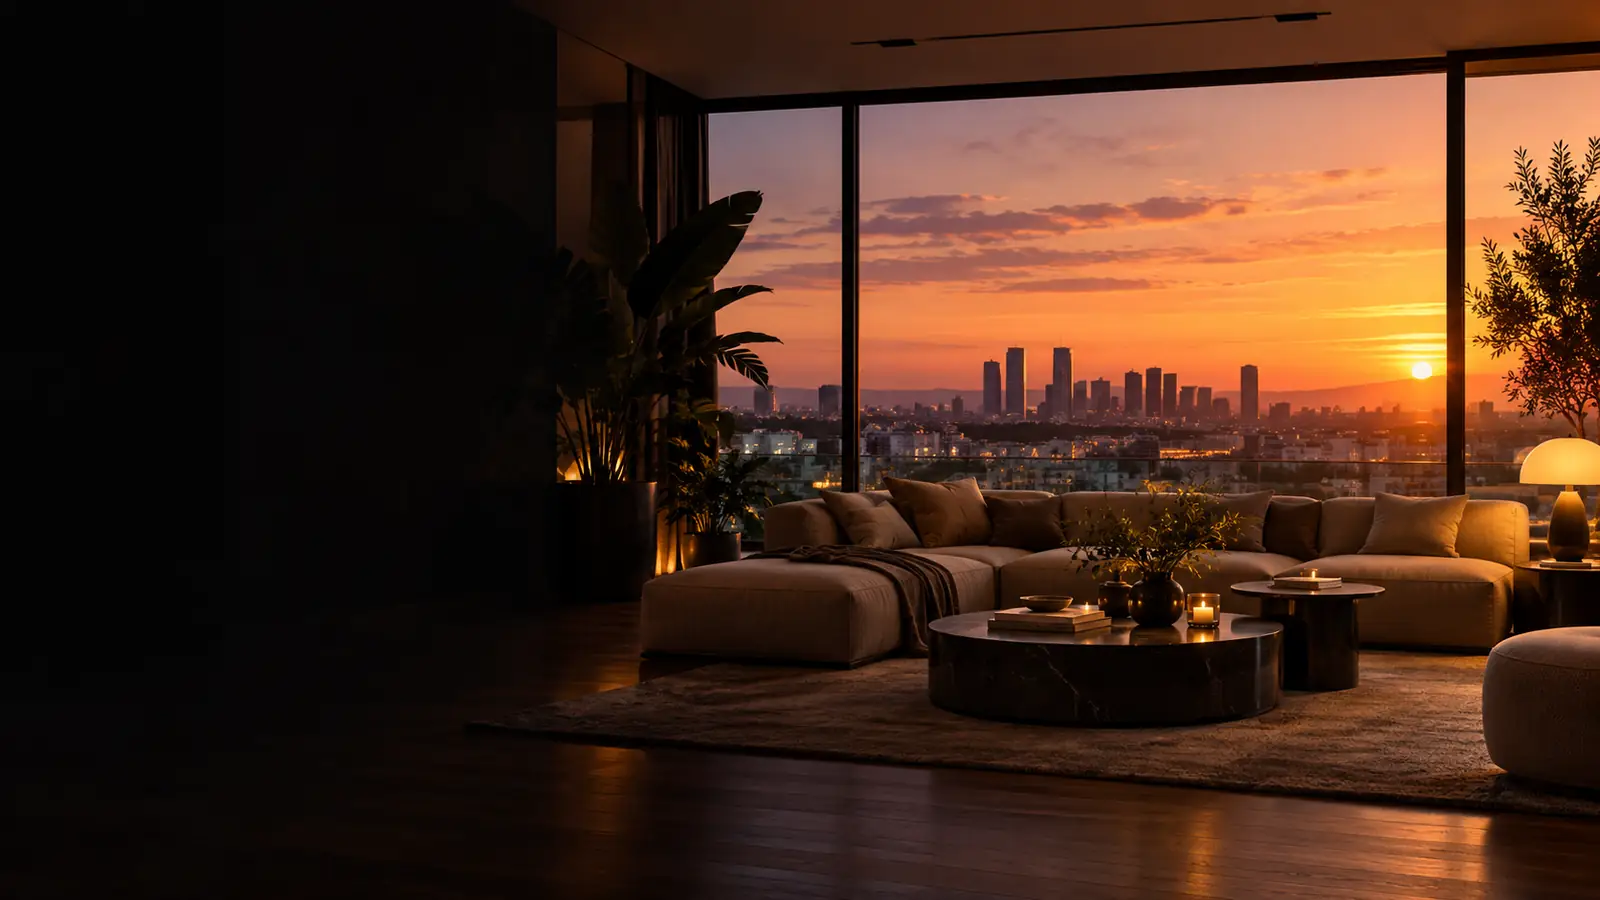
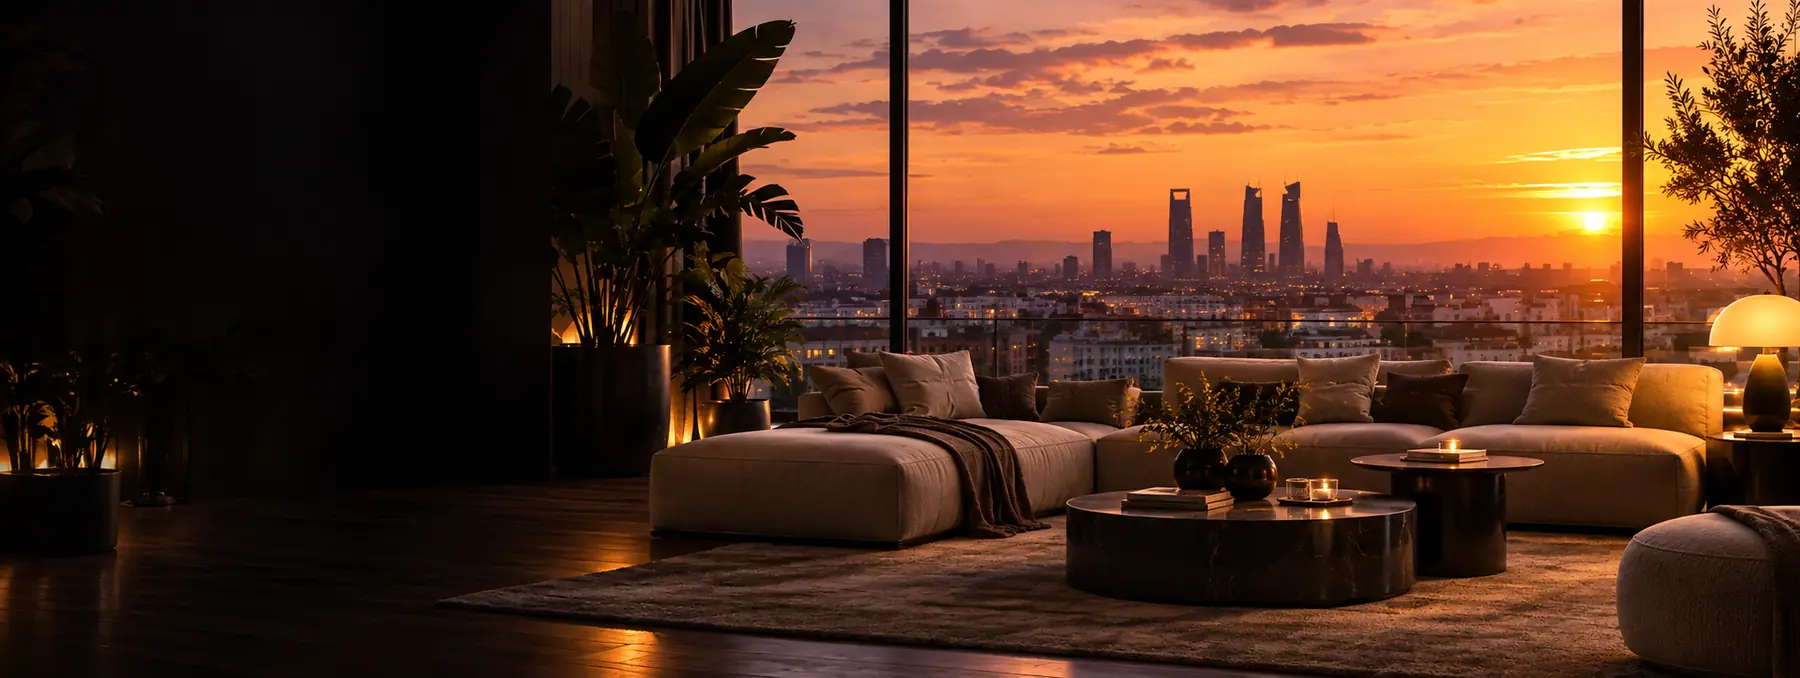
v3: foto panoramica del hero y ajustes de la seccion "El momento"
Entra la fotografia nueva del hero, la panoramica que faltaba: 2043x770 de
origen, guardada a 1800x678 y 85 KB. Es 2,65 de ancha y el hero pide 1,95,
asi que recorta por los lados: se encuadra al 55 por ciento, que deja dentro
el sol de la derecha y mantiene los primeros 300 px de pared oscura, que es
donde se apoya el titular. Antes estaba al 78 y se comia esa pared.

En "El momento", el texto de las listas se partia en dos lineas porque las
tarjetas iban estrechas. La columna del titular se lleva menos sitio (de
1,03 a 0,88) y las dos tarjetas ganan ancho. Dentro de la tarjeta Hoy, el
relleno de la derecha baja de 22 a 14 px y el texto de 0,92 a 0,82 rem.
Resultado medido: "Llama a otra inmobiliaria" pasa de necesitar 168 px con
150 disponibles a 157 con 169.

La pastilla de llamada perdida ya no parte "Llamada perdida" en dos.

Y las imagenes, mas anchas: la foto del comprador sube de 184 a 195 px y su
degradado se acorta del 62 al 44 por ciento, asi que se ve mas foto y menos
velo. La tarjeta de la visita pasa de 152 a 172 px.

diff --git a/src/prueba-inmobiliarias-v3.html b/src/prueba-inmobiliarias-v3.html
@@ -86,7 +86,7 @@
       container-type: inline-size;
       --u: 0.11547cqw;
     }
-    .hero .foto { position: absolute; inset: 0; background: url(assets/hero-inmobiliarias.webp) 78% center / cover no-repeat; }
+    .hero .foto { position: absolute; inset: 0; background: url(assets/hero-inmobiliarias.webp) 55% center / cover no-repeat; }
     .hero .velo { position: absolute; inset: 0; background: linear-gradient(90deg, rgba(6,6,8,.92) 0%, rgba(6,6,8,.78) 22%, rgba(6,6,8,.30) 44%, rgba(6,6,8,.05) 60%, rgba(6,6,8,0) 72%); }
 
     .h-nav { position: absolute; left: calc(51*var(--u)); right: calc(44*var(--u)); top: calc(12*var(--u)); height: calc(26*var(--u)); display: flex; align-items: center; z-index: 60; }
@@ -338,7 +338,7 @@
     .h-wfoot .mic svg { width: calc(12*var(--u)); height: calc(12*var(--u)); color: var(--azul); }
 
     .m2 { background: #FEFEFD; }
-    .m2-grid { display: grid; grid-template-columns: 1.03fr 1fr 1.02fr; gap: 24px; align-items: stretch; }
+    .m2-grid { display: grid; grid-template-columns: .88fr 1.07fr 1.05fr; gap: 24px; align-items: stretch; }
     .m2-txt { align-self: center; padding-right: 10px; }
     .m2-kick { font-size: .72rem; font-weight: 700; letter-spacing: .2em; text-transform: uppercase; color: var(--azul); margin-bottom: 1.5rem; }
     .m2-t { font-size: clamp(1.9rem, 3.3vw, 2.95rem); line-height: 1.04; letter-spacing: -.04em; font-weight: 800; color: #0B1119; text-wrap: balance; }
@@ -347,21 +347,21 @@
     .m2-card { border-radius: 22px; overflow: hidden; position: relative; }
 
     /* ---- HOY ---- */
-    .m2-hoy { background: #EFF0F3; display: grid; grid-template-columns: 1fr .82fr; }
-    .m2-hoy-txt { padding: 26px 22px 26px 26px; position: relative; z-index: 2; }
+    .m2-hoy { background: #EFF0F3; display: grid; grid-template-columns: 1.24fr 1fr; }
+    .m2-hoy-txt { padding: 24px 14px 24px 24px; position: relative; z-index: 2; }
     .m2-eyebrow { font-size: .72rem; font-weight: 700; letter-spacing: .2em; text-transform: uppercase; color: #0B1119; }
     .m2-eyebrow.az { color: var(--azul); }
 
     .m2-perdida { display: flex; align-items: center; gap: .75rem; background: #fff; border-radius: 16px; padding: .75rem .9rem; margin-top: 1.5rem; box-shadow: 0 6px 18px rgba(16,24,40,.09); }
     .m2-perdida .ic { width: 38px; height: 38px; border-radius: 50%; background: #FD5B54; display: flex; align-items: center; justify-content: center; }
     .m2-perdida .ic svg { width: 19px; height: 19px; color: #fff; }
-    .m2-perdida b { display: block; font-size: .95rem; font-weight: 700; letter-spacing: -.02em; color: #0B1119; }
+    .m2-perdida b { display: block; font-size: .92rem; font-weight: 700; letter-spacing: -.02em; color: #0B1119; white-space: nowrap; }
     .m2-perdida span { display: block; font-size: .82rem; color: #8A929D; margin-top: .05rem; }
 
     .m2-pasos { list-style: none; margin-top: 1.6rem; position: relative; }
-    .m2-pasos li { display: flex; align-items: center; gap: .8rem; font-size: .92rem; color: #7A828E; padding: .55rem 0; position: relative; }
+    .m2-pasos li { display: flex; align-items: center; gap: .65rem; font-size: .82rem; color: #7A828E; padding: .48rem 0; position: relative; }
     .m2-pasos li .p { width: 24px; height: 24px; border-radius: 50%; border: 1.5px solid #C7CCD3; background: #EFF0F3; display: flex; align-items: center; justify-content: center; position: relative; z-index: 2; }
-    .m2-pasos li .p svg { width: 12px; height: 12px; color: #9AA1AB; }
+    .m2-pasos li .p svg { width: 13px; height: 13px; color: #868E99; }
     /* hilo fino que une los pasos, como en la referencia */
     .m2-pasos li:not(:last-child)::before { content: ""; position: absolute; left: 11.5px; top: 50%; height: 100%; width: 1px; background: #D5D9DE; z-index: 1; }
     .m2-pasos li.fin { color: #0B1119; font-weight: 700; }
@@ -369,20 +369,20 @@
     .m2-pasos li.fin .p svg { color: #fff; width: 11px; height: 11px; }
 
     .m2-foto { position: relative; }
-    .m2-foto img { width: 100%; height: 100%; object-fit: cover; object-position: 55% center; }
+    .m2-foto img { width: 100%; height: 100%; object-fit: cover; object-position: 62% center; }
     /* el borde izquierdo se funde con la tarjeta, como en la referencia */
-    .m2-foto::after { content: ""; position: absolute; inset: 0; background: linear-gradient(90deg, #EFF0F3 0%, rgba(239,240,243,.72) 26%, rgba(239,240,243,0) 62%); }
+    .m2-foto::after { content: ""; position: absolute; inset: 0; background: linear-gradient(90deg, #EFF0F3 0%, rgba(239,240,243,.55) 18%, rgba(239,240,243,0) 44%); }
 
     /* ---- CON EASYROBOTS ---- */
-    .m2-er { background: #F2F8FE; border: 1px solid #DDEBFB; padding: 26px 24px; display: flex; flex-direction: column; }
+    .m2-er { background: #F2F8FE; border: 1px solid #DDEBFB; padding: 24px 22px; display: flex; flex-direction: column; }
     .m2-er-cols { display: grid; grid-template-columns: 1fr auto; gap: 20px; align-items: start; margin-top: 1.5rem; flex: 1; }
     .m2-checks { list-style: none; display: flex; flex-direction: column; gap: .1rem; position: relative; }
-    .m2-checks li { display: flex; align-items: flex-start; gap: .8rem; font-size: .92rem; line-height: 1.4; color: #3F4855; padding: .5rem 0; position: relative; }
+    .m2-checks li { display: flex; align-items: flex-start; gap: .65rem; font-size: .82rem; line-height: 1.42; color: #3F4855; padding: .42rem 0; position: relative; }
     .m2-checks li .tk { width: 25px; height: 25px; border-radius: 50%; background: var(--azul); display: flex; align-items: center; justify-content: center; flex: 0 0 auto; position: relative; z-index: 2; }
     .m2-checks li .tk svg { width: 13px; height: 13px; color: #fff; }
     .m2-checks li:not(:last-child)::before { content: ""; position: absolute; left: 12px; top: 50%; height: 100%; width: 1px; background: #CFE3FA; z-index: 1; }
 
-    .m2-visita { width: 152px; background: #fff; border-radius: 15px; overflow: hidden; box-shadow: 0 10px 26px rgba(16,24,40,.12); align-self: start; }
+    .m2-visita { width: 172px; background: #fff; border-radius: 15px; overflow: hidden; box-shadow: 0 10px 26px rgba(16,24,40,.12); align-self: start; }
     .m2-visita img { width: 100%; aspect-ratio: 137/150; object-fit: cover; }
     .m2-visita .txt { padding: .7rem .75rem .8rem; display: grid; grid-template-columns: 1fr auto; align-items: center; gap: .4rem; }
     .m2-visita b { grid-column: 1 / -1; font-size: .86rem; font-weight: 700; letter-spacing: -.02em; color: #0B1119; }
